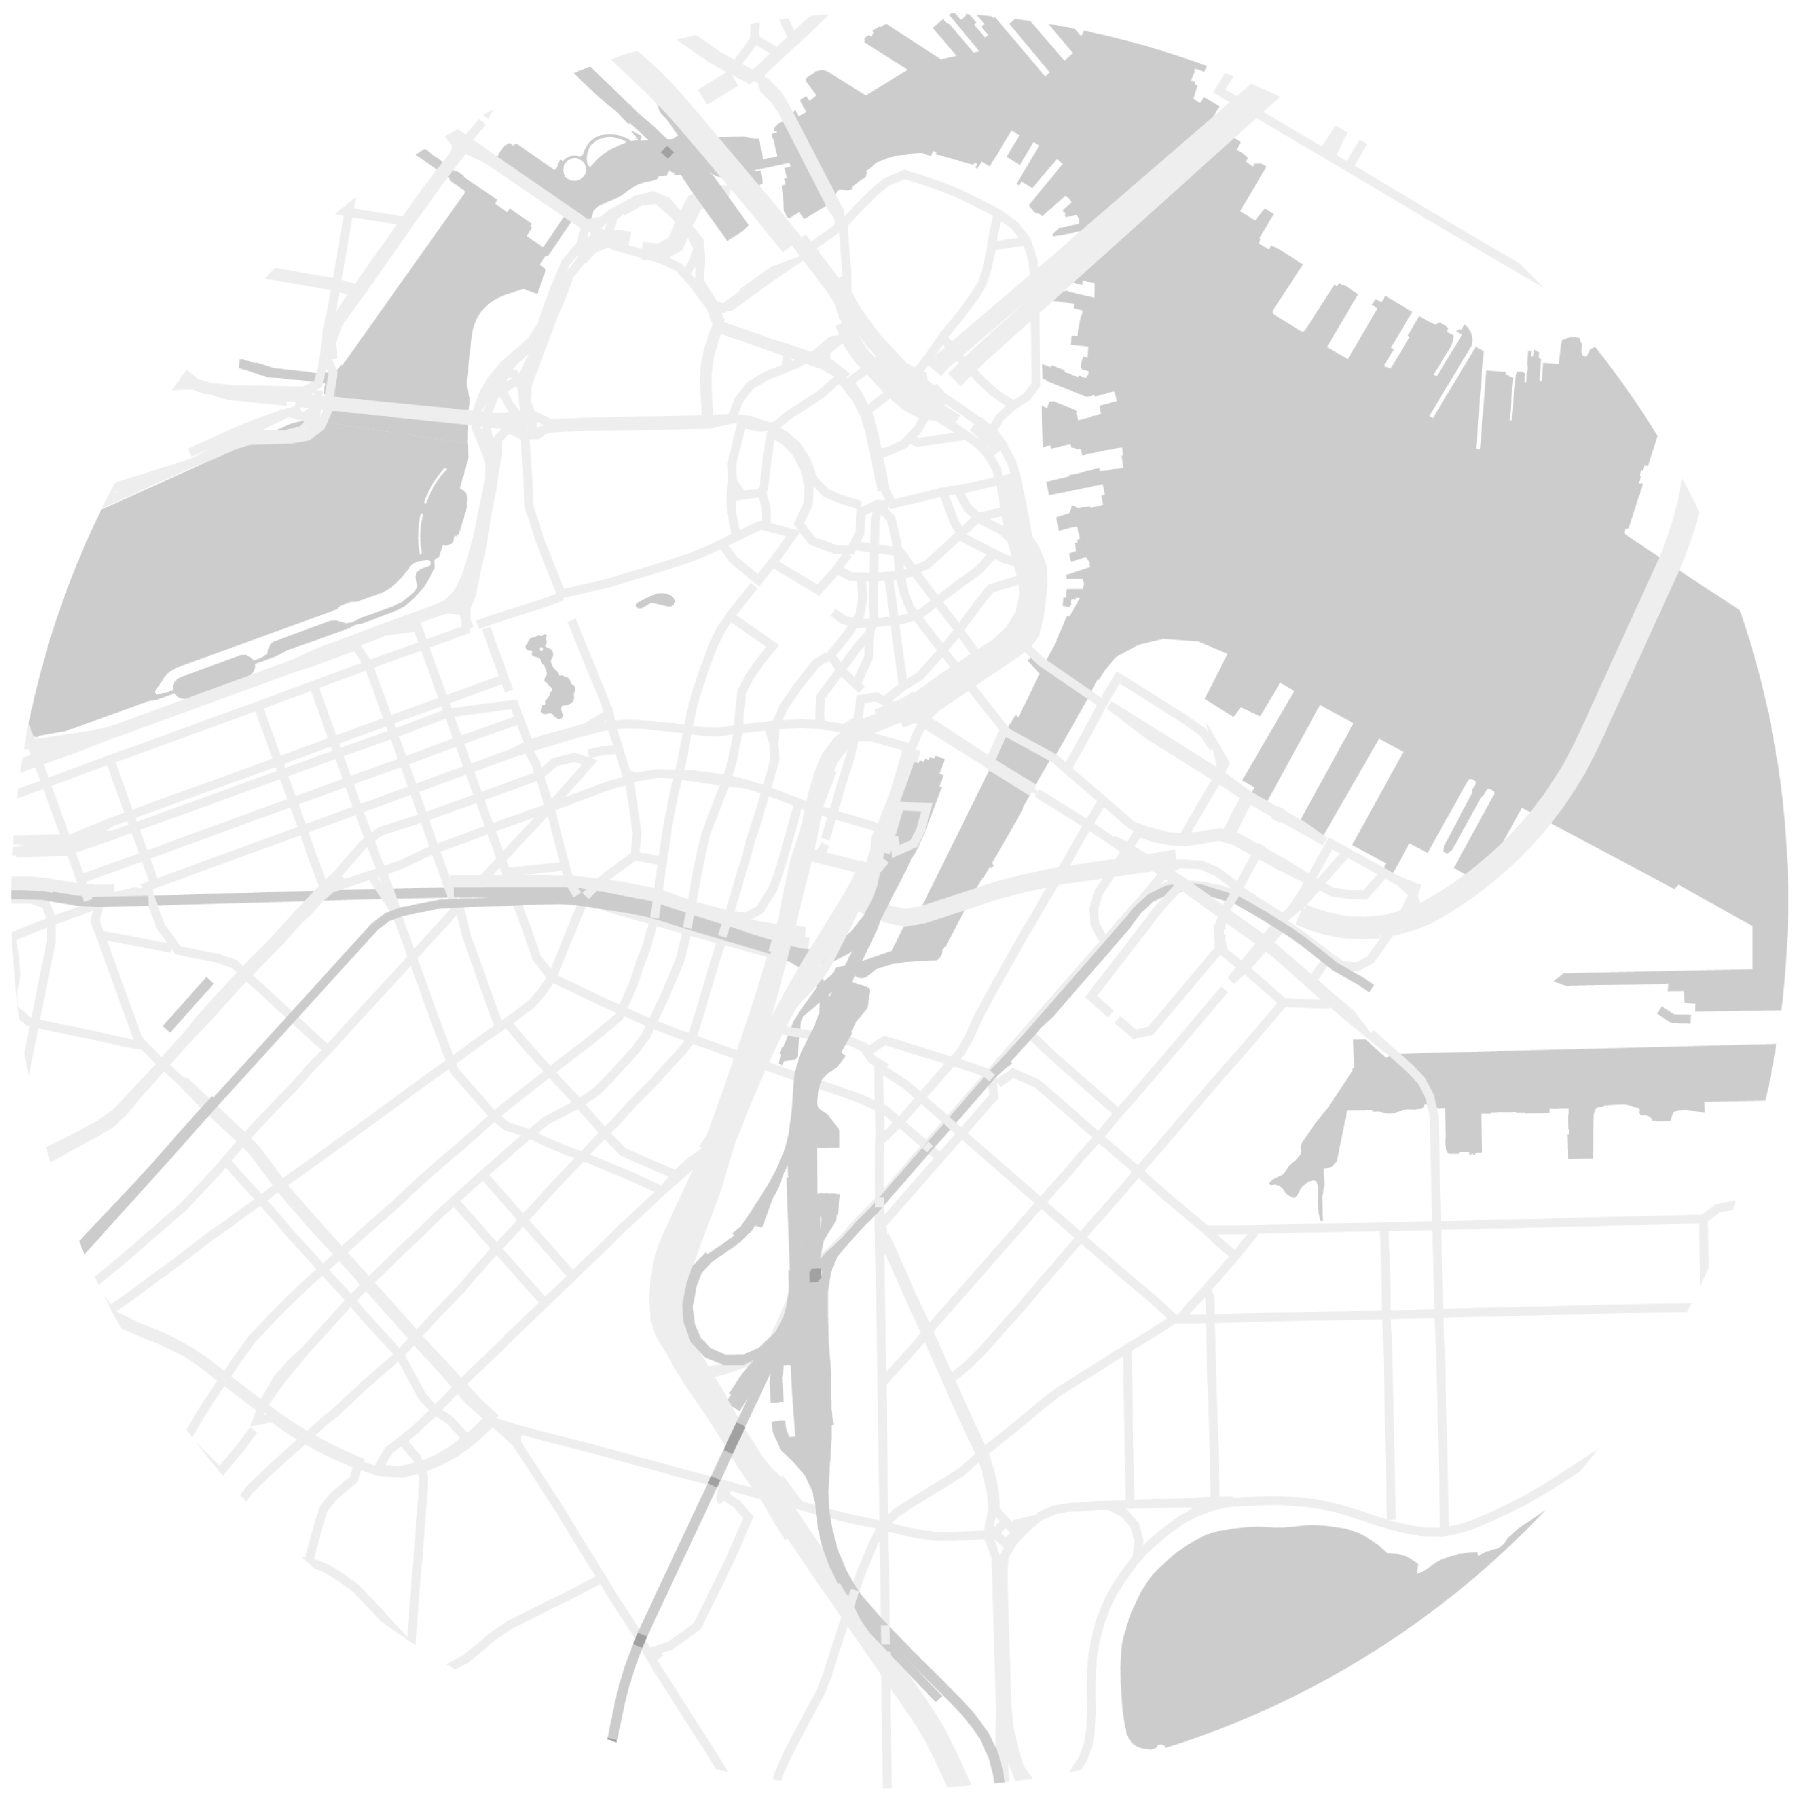
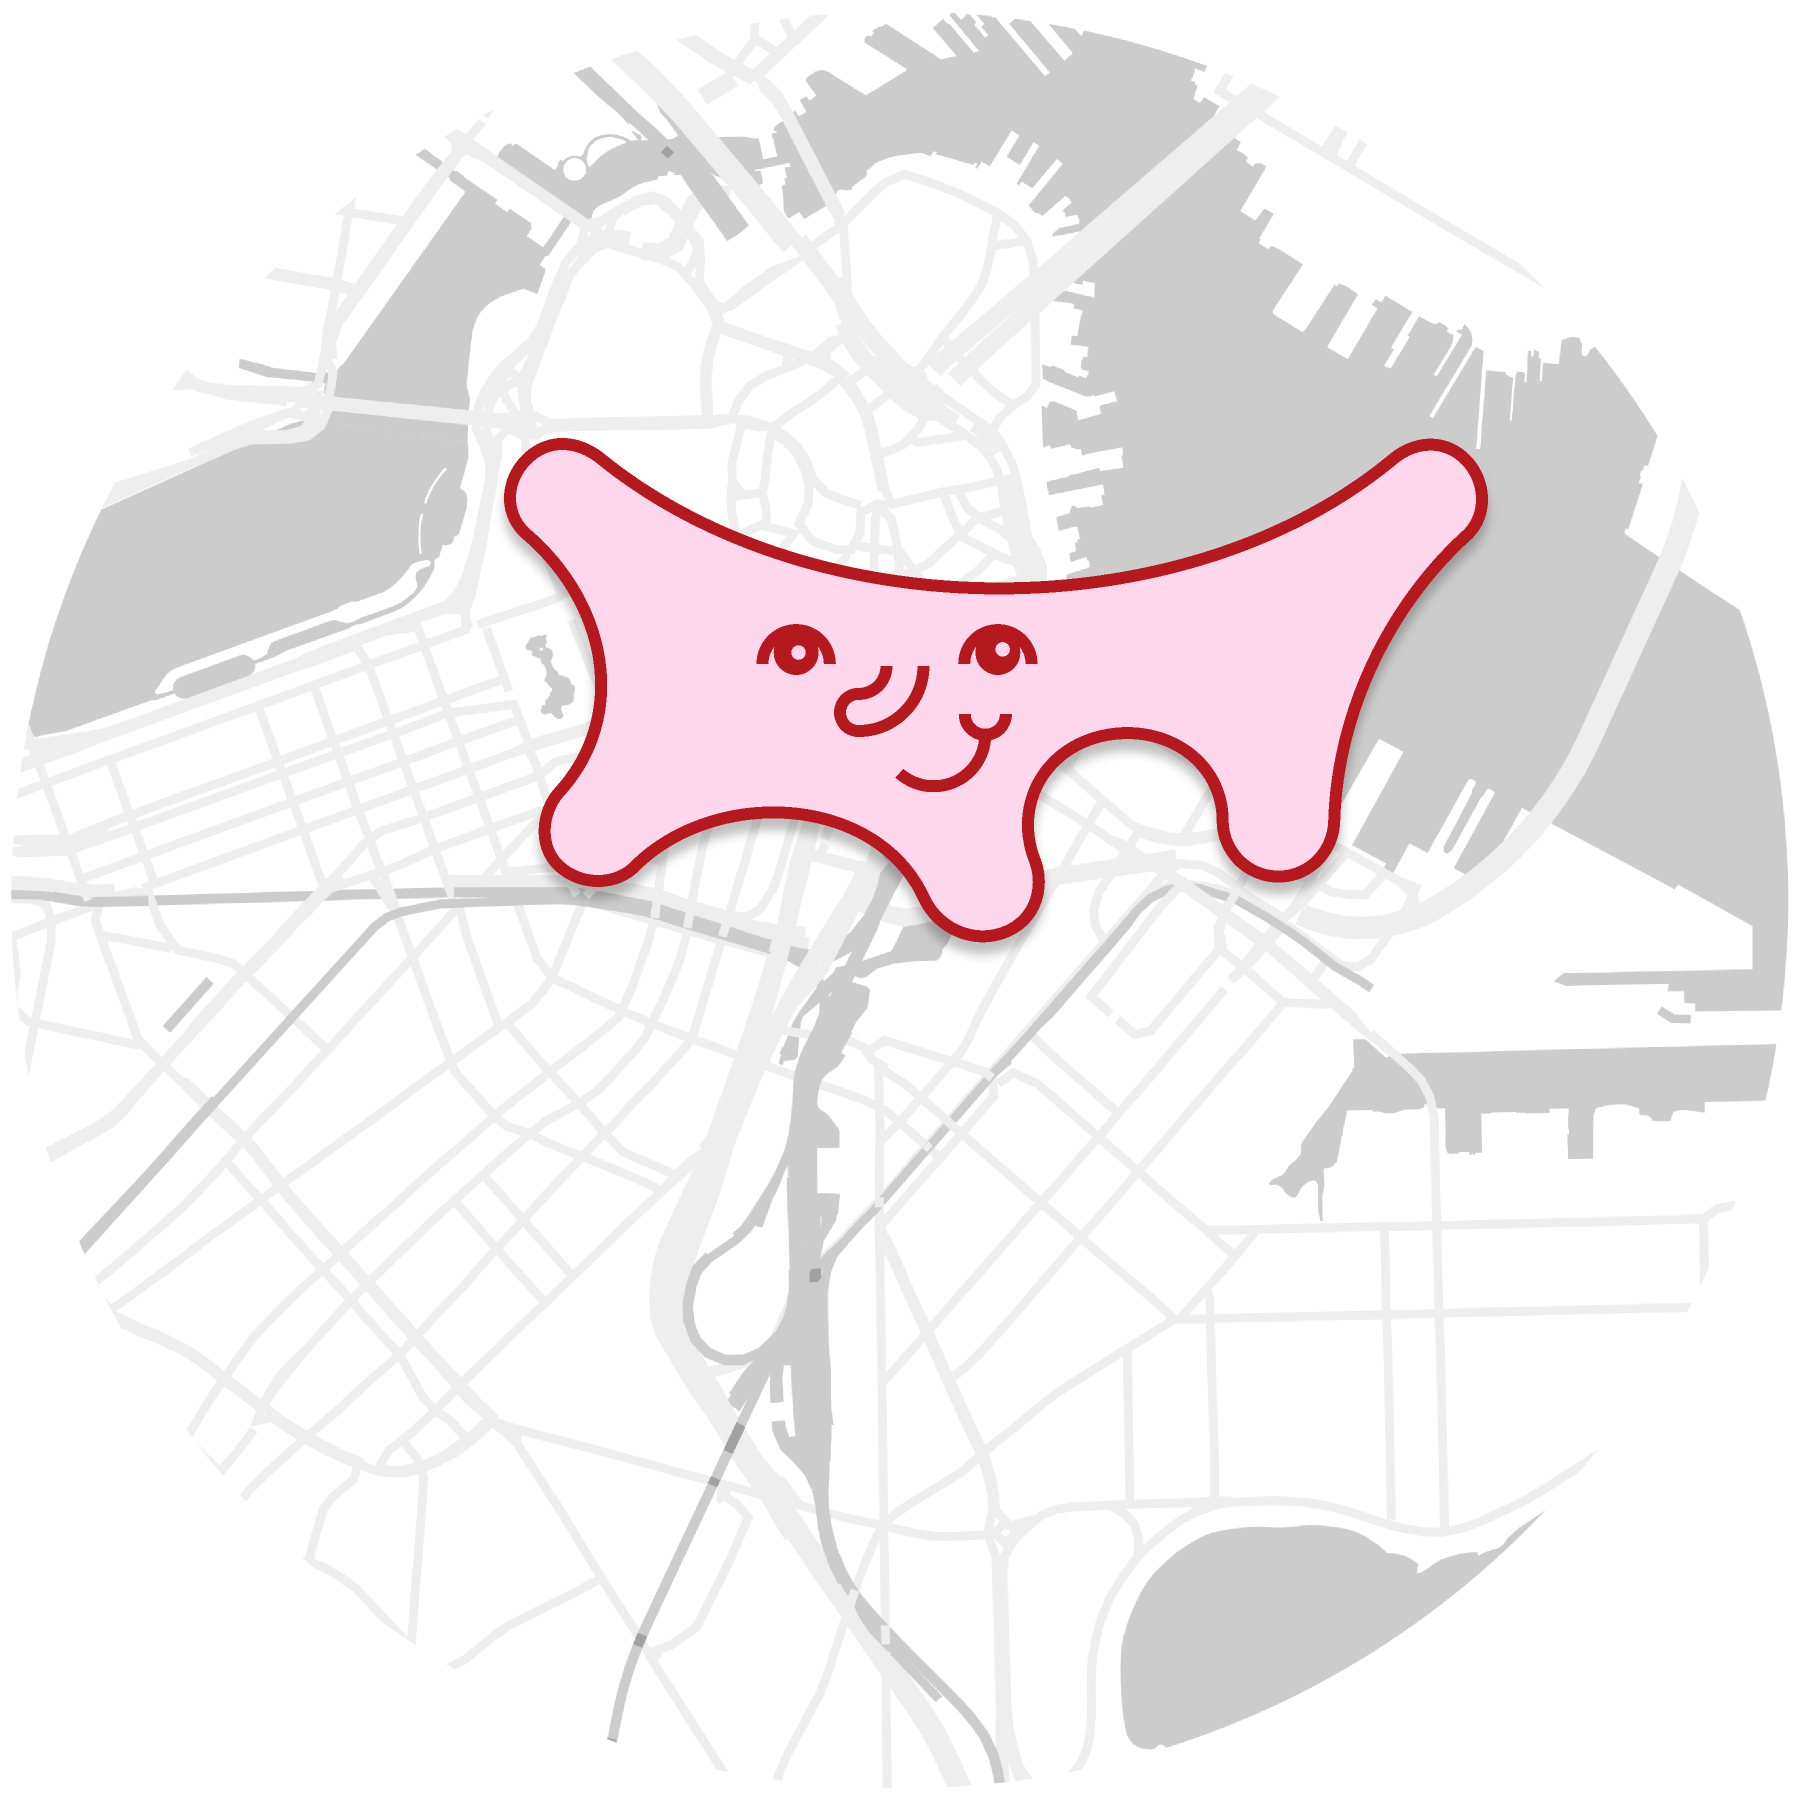
Working svg shape animation on home/

Changed region(s): [[0.28, 0.2178, 0.84, 0.5289]]

diff --git a/client/src/app/home/home.component.html b/client/src/app/home/home.component.html
@@ -48,7 +48,8 @@
     <div class="column is-12-tablet is-8-desktop left" data-aos="fade-right" *ngIf="!isPhone">
 
       <div id="events-box" class="space-grotesk text">
-        <p>Hodor. Hodor hodor, hodor. Hodor hodor hodor hodor hodor. Hodor. Hodor! Hodor hodor, hodor; hodor hodor hodor. Hodor. Hodor hodor; hodor hodor - hodor, hodor, hodor hodor.</p>
+        <p>Hodor. Hodor hodor, hodor. Hodor hodor hodor hodor hodor. Hodor. Hodor! Hodor hodor, hodor; hodor hodor
+          hodor. Hodor. Hodor hodor; hodor hodor - hodor, hodor, hodor hodor.</p>
       </div>
 
       <a routerLink="/getinvolved">
@@ -67,7 +68,7 @@
     <div class="column is-full-mobile" *ngIf="isPhone">
 
       <div id="events-box" class="space-grotesk text">
-        
+
       </div>
 
       <a routerLink="/getinvolved">
@@ -90,8 +91,8 @@
       <h2 class="lower" *ngIf="nextEvent && !currentEvent">The exhibit will soon be in . . .</h2>
 
       <svg fill="none" viewBox="0 0 500 80">
-          <text x="0" y="98%" *ngIf="currentEvent !== undefined">{{currentEvent.name}}</text>
-          <text x="0" y="98%" *ngIf="nextEvent && !currentEvent">{{nextEvent.name}}</text>
+        <text x="0" y="98%" *ngIf="currentEvent !== undefined">{{currentEvent.name}}</text>
+        <text x="0" y="98%" *ngIf="nextEvent && !currentEvent">{{nextEvent.name}}</text>
       </svg>
       <app-button route="/exhibit" label="view more info"></app-button>
 
@@ -99,42 +100,33 @@
 
     <!-- Map -->
     <div class="column is-11-mobile">
-<svg id="circle-purple" width="116" height="116" fill="none" viewBox="0 0 116 116">
+      <div data-aos="circle-purple">
+      <svg id="circle-purple" width="116" height="116" fill="none" viewBox="0 0 116 116">
         <path fill="#402B59" d="M58 116c32.032 0 58-25.968 58-58S90.032 0 58 0 0 25.968 0 58s25.968 58 58 58z" />
       </svg>
+    </div>
       <cdn-image id="map" cloudinaryId="img/home/boston-map" width="600" [responsive]="true" autoFormat="true"
-        alt="Boston map" data-aos="fade-left">
+        alt="Boston map" data-aos="fade-left" data-aos-offset="-300">
       </cdn-image>
-      <svg _ngcontent-c4="" fill="none" height="612" id="shapes" viewBox="0 0 584 300" width="584">
-        <!-- <g>
-            <path fill="#FFD7ED" stroke="#B5191D" stroke-width="4" d="M180.904 140.708l-.001-.001c-7.23-18.808 3.604-37.707 23.511-41.612h.001c20.109-3.954 39.067 8.624 39.149 28.507v.002c.05 10.25 8.314 18.579 18.589 18.579 10.318 0 18.293-8.363 18.589-18.53 1.051-35.731 17.926-71.51 44.436-95.479l.038-.034.035-.035c6.959-6.96 5.894-18.284-.8-24.978-6.94-6.94-16.851-6.099-24.041-.124-34.588 28.702-82.755 43.132-131.286 43.132-48.529 0-97.187-14.429-132.74-43.148-3.787-3.068-8.137-4.88-12.52-4.981-4.422-.102-8.725 1.545-12.302 5.121-7.083 7.084-7.768 18.276.107 25.077l.002.002c26.623 22.926 33.99 60.157 10.851 85.729l-.003.003c-2.947 3.272-4.763 7.813-4.948 12.348-.187 4.561 1.281 9.275 5.115 12.642 7.307 6.419 18.56 6.234 24.883-.088 13.372-13.35 33.526-19.434 52.406-17.75 18.87 1.683 36.106 11.075 44.023 28.246l.001.003c4.237 9.156 14.498 14.65 24.446 12.175 6.141-1.529 10.231-5.343 12.275-10.031 2.021-4.638 2.003-10.032.184-14.775z"/>
-            <path stroke="#B5191D" stroke-miterlimit="10" stroke-width="4" d="M90.174 75.253c0-6.182 5.025-11.207 11.207-11.207 6.181 0 11.207 5.025 11.207 11.207"/>
-            <path fill="#B5191D" d="M101.381 78.989a7.471 7.471 0 1 0 0-14.943 7.471 7.471 0 0 0 0 14.942z"/>
-            <path stroke="#B5191D" stroke-miterlimit="10" stroke-width="4" d="M157.415 75.253c0-6.182 5.025-11.207 11.207-11.207s11.207 5.025 11.207 11.207"/>
-            <path fill="#B5191D" d="M168.622 78.989a7.471 7.471 0 1 0 0-14.943 7.471 7.471 0 0 0 0 14.942z"/>
-            <path stroke="#B5191D" stroke-miterlimit="10" stroke-width="4" d="M164.397 98.912c0 9.472-7.693 17.166-17.166 17.166a17.04 17.04 0 0 1-11.429-4.358M171.29 92.063a6.851 6.851 0 0 1-6.848 6.849 6.852 6.852 0 0 1-6.849-6.849M122.193 97.667a6.168 6.168 0 0 1-6.181-6.181 6.168 6.168 0 0 1 6.181-6.182M131.488 76.053a9.243 9.243 0 0 1-9.25 9.25M143.807 76.053c0 11.963-9.651 21.614-21.614 21.614"/>
-            <path fill="#FFD7ED" d="M102.181 73.918a2.402 2.402 0 1 0 0-4.804 2.402 2.402 0 0 0 0 4.804zM170.223 72.851a2.402 2.402 0 1 0 0-4.804 2.402 2.402 0 0 0 0 4.804z"/>
-        </g> -->
-        
-        <path d="M515 440C536.539 440 554 422.539 554 401C554 379.461 536.539 362 515 362C493.461 362 476 379.461 476 401C476 422.539 493.461 440 515 440Z" fill="#B5191D"/>
-        <g filter="url(#filter0_d)">
-        <path d="M339.788 140.619L339.787 140.617C332.561 121.821 343.389 102.935 363.283 99.0314L363.283 99.0312C383.38 95.0798 402.326 107.65 402.408 127.521L402.408 127.522C402.458 137.766 410.717 146.09 420.985 146.09C431.297 146.09 439.266 137.732 439.562 127.571C440.612 91.863 457.476 56.1075 483.97 32.1536L484.007 32.1199L484.043 32.0843C490.997 25.1298 489.933 13.8126 483.243 7.12295C476.307 0.187518 466.402 1.02769 459.217 6.99901C424.652 35.6826 376.515 50.103 328.015 50.103C279.517 50.103 230.89 35.6833 195.359 6.98246C191.575 3.91698 187.228 2.10544 182.847 2.00445C178.429 1.90257 174.128 3.54875 170.554 7.12295C163.475 14.2016 162.791 25.3871 170.661 32.1837L170.663 32.1856C197.269 55.0964 204.631 92.3038 181.507 117.86L181.504 117.863C178.558 121.133 176.743 125.671 176.558 130.203C176.372 134.761 177.839 139.472 181.67 142.837C188.973 149.252 200.219 149.067 206.537 142.749C219.901 129.407 240.042 123.327 258.911 125.01C277.768 126.693 294.993 136.079 302.905 153.238L302.906 153.241C307.141 162.392 317.395 167.882 327.337 165.408L327.337 165.408C333.474 163.88 337.561 160.069 339.604 155.384C341.624 150.749 341.605 145.359 339.788 140.619Z" fill="#FFD7ED" stroke="#B5191D" stroke-width="4"/>
-        <path d="M249.115 75.2049C249.115 69.0273 254.137 64.0051 260.315 64.0051C266.493 64.0051 271.515 69.0273 271.515 75.2049" stroke="#B5191D" stroke-width="4" stroke-miterlimit="10"/>
-        <path d="M260.315 78.9382C264.439 78.9382 267.781 75.5953 267.781 71.4716C267.781 67.348 264.439 64.0051 260.315 64.0051C256.191 64.0051 252.848 67.348 252.848 71.4716C252.848 75.5953 256.191 78.9382 260.315 78.9382Z" fill="#B5191D"/>
-        <path d="M316.314 75.2049C316.314 69.0273 321.336 64.0051 327.514 64.0051C333.691 64.0051 338.713 69.0273 338.713 75.2049" stroke="#B5191D" stroke-width="4" stroke-miterlimit="10"/>
-        <path d="M327.514 78.9382C331.637 78.9382 334.98 75.5953 334.98 71.4716C334.98 67.348 331.637 64.0051 327.514 64.0051C323.39 64.0051 320.047 67.348 320.047 71.4716C320.047 75.5953 323.39 78.9382 327.514 78.9382Z" fill="#B5191D"/>
-        <path d="M323.292 98.8489C323.292 108.315 315.603 116.004 306.136 116.004C301.736 116.004 297.736 114.36 294.714 111.649" stroke="#B5191D" stroke-width="4" stroke-miterlimit="10"/>
-        <path d="M330.18 92.0046C330.18 95.7823 327.114 98.849 323.336 98.849C319.558 98.849 316.492 95.7823 316.492 92.0046" stroke="#B5191D" stroke-width="4" stroke-miterlimit="10"/>
-        <path d="M281.115 97.6051C277.692 97.6051 274.937 94.8496 274.937 91.4274C274.937 88.0053 277.692 85.2498 281.115 85.2498" stroke="#B5191D" stroke-width="4" stroke-miterlimit="10"/>
-        <path d="M290.403 76.0049C290.403 81.1159 286.27 85.2491 281.159 85.2491" stroke="#B5191D" stroke-width="4" stroke-miterlimit="10"/>
-        <path d="M302.714 76.0049C302.714 87.9602 293.07 97.6045 281.114 97.6045" stroke="#B5191D" stroke-width="4" stroke-miterlimit="10"/>
-        <path d="M261.115 73.8714C262.44 73.8714 263.515 72.7969 263.515 71.4715C263.515 70.146 262.44 69.0715 261.115 69.0715C259.789 69.0715 258.715 70.146 258.715 71.4715C258.715 72.7969 259.789 73.8714 261.115 73.8714Z" fill="#FFD7ED"/>
-        <path d="M329.114 72.8048C330.439 72.8048 331.514 71.7303 331.514 70.4048C331.514 69.0794 330.439 68.0049 329.114 68.0049C327.788 68.0049 326.714 69.0794 326.714 70.4048C326.714 71.7303 327.788 72.8048 329.114 72.8048Z" fill="#FFD7ED"/>
-        </g>
-        <path d="M172.724 296.31C157.889 305.029 150.969 293.321 136.135 302.04C121.3 310.759 128.165 322.308 113.33 331.027C98.4959 339.746 91.5761 328.038 76.7416 336.757C61.9071 345.476 68.7717 357.024 53.9372 365.743C39.1028 374.462 32.2382 362.914 17.4037 371.633" stroke="#FFD7ED" stroke-width="12" stroke-miterlimit="10" stroke-linecap="round"/>
-        <path d="M520.5 392C552.256 392 578 366.033 578 334C578 301.967 552.256 276 520.5 276C488.744 276 463 301.967 463 334C463 366.033 488.744 392 520.5 392Z" stroke="#FCBD0B" stroke-width="12" stroke-miterlimit="10"/>
-        </svg>
-        
+
+      <div id="shapes" data-aos="shapes">
+      <!-- <svg" fill="none" height="612" viewBox="0 0 584 300" width="584">
+        <path
+          d="M515 440C536.539 440 554 422.539 554 401C554 379.461 536.539 362 515 362C493.461 362 476 379.461 476 401C476 422.539 493.461 440 515 440Z"
+          fill="#B5191D" />
+        <path
+          d="M172.724 296.31C157.889 305.029 150.969 293.321 136.135 302.04C121.3 310.759 128.165 322.308 113.33 331.027C98.4959 339.746 91.5761 328.038 76.7416 336.757C61.9071 345.476 68.7717 357.024 53.9372 365.743C39.1028 374.462 32.2382 362.914 17.4037 371.633"
+          stroke="#FFD7ED" stroke-width="12" stroke-miterlimit="10" stroke-linecap="round" />
+        <path
+          d="M520.5 392C552.256 392 578 366.033 578 334C578 301.967 552.256 276 520.5 276C488.744 276 463 301.967 463 334C463 366.033 488.744 392 520.5 392Z"
+          stroke="#FCBD0B" stroke-width="12" stroke-miterlimit="10" />
+      </svg> -->
+      <svg viewBox="0 0 584 200" width="584" height="295" fill="none" xmlns="http://www.w3.org/2000/svg">
+        <path d="M 507.696 170.836 C 529.235 170.836 546.696 153.375 546.696 131.836 C 546.696 110.297 529.235 92.836 507.696 92.836 C 486.157 92.836 468.696 110.297 468.696 131.836 C 468.696 153.375 486.157 170.836 507.696 170.836 Z" fill="#B5191D"/>
+        <path d="M 165.42 27.146 C 150.585 35.865 143.665 24.157 128.831 32.876 C 113.996 41.595 120.861 53.144 106.026 61.863 C 91.192 70.582 84.272 58.874 69.437 67.593 C 54.603 76.312 61.467 87.86 46.633 96.579 C 31.799 105.298 24.934 93.75 10.099 102.469" stroke="#FFD7ED" stroke-width="12" stroke-miterlimit="10" stroke-linecap="round"/>
+        <path d="M 513.196 122.836 C 544.952 122.836 570.696 96.869 570.696 64.836 C 570.696 32.803 544.952 6.836 513.196 6.836 C 481.44 6.836 455.696 32.803 455.696 64.836 C 455.696 96.869 481.44 122.836 513.196 122.836 Z" stroke="#FCBD0B" stroke-width="12" stroke-miterlimit="10"/>
+      </svg>
+</div>
     </div>
 
     <!-- Phones -->

diff --git a/client/src/style/global.scss b/client/src/style/global.scss
@@ -234,3 +234,33 @@ form {
 #tagline {
   @include pxtoem(24, 48);
 }
+
+
+// AOS shape animations
+[data-aos="circle-purple"] {
+  transform: scale(0 ,0);
+  transform-origin: 20% 50%;
+
+  transition-property: transform, opacity;
+  transition-timing-function: ease-in-out;
+  transition-duration: 1.5s!important;
+
+  opacity: 0;
+
+  &.aos-animate {
+      transform: scale(1, 1);
+      opacity: 1;
+  }
+}
+
+[data-aos="shapes"] {
+  transition-property: all;
+  transition-timing-function: ease-in-out;
+  transition-duration: 1.5s!important;
+
+  clip-path: ellipse(0% 0% at 50% 50%);
+
+  &.aos-animate {    
+    clip-path: ellipse(100% 100% at 50% 50%);
+  }
+}

diff --git a/client/src/app/home/home.component.scss b/client/src/app/home/home.component.scss
@@ -221,8 +221,9 @@
 
     #shapes {
         position: absolute;
-        right: 0;
         z-index: 4;
+
+        @include translate(0, -86%);
 
         @include phones {
             @include scale(.7);
